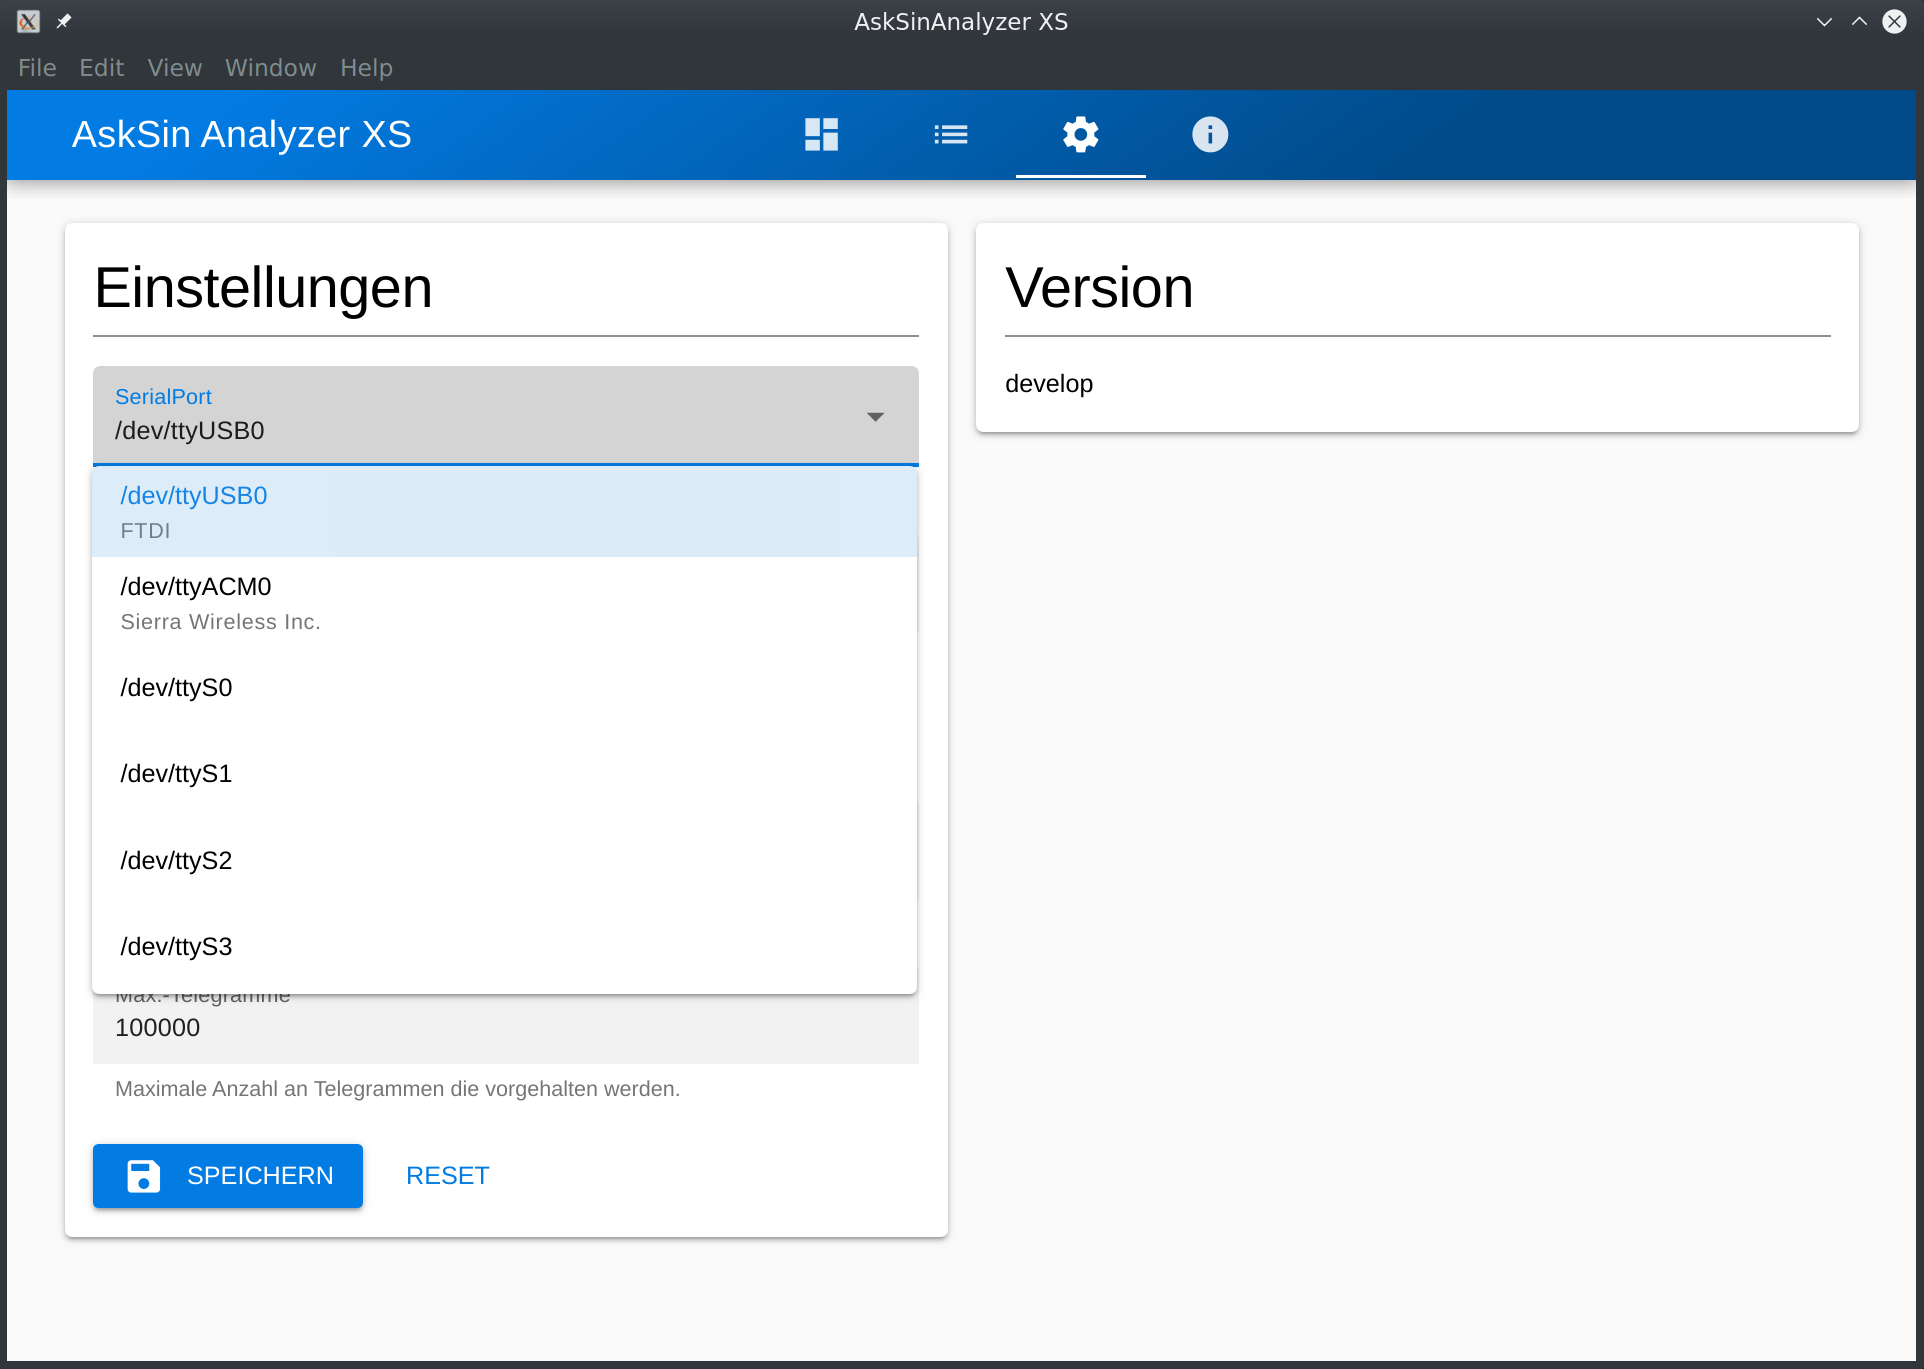
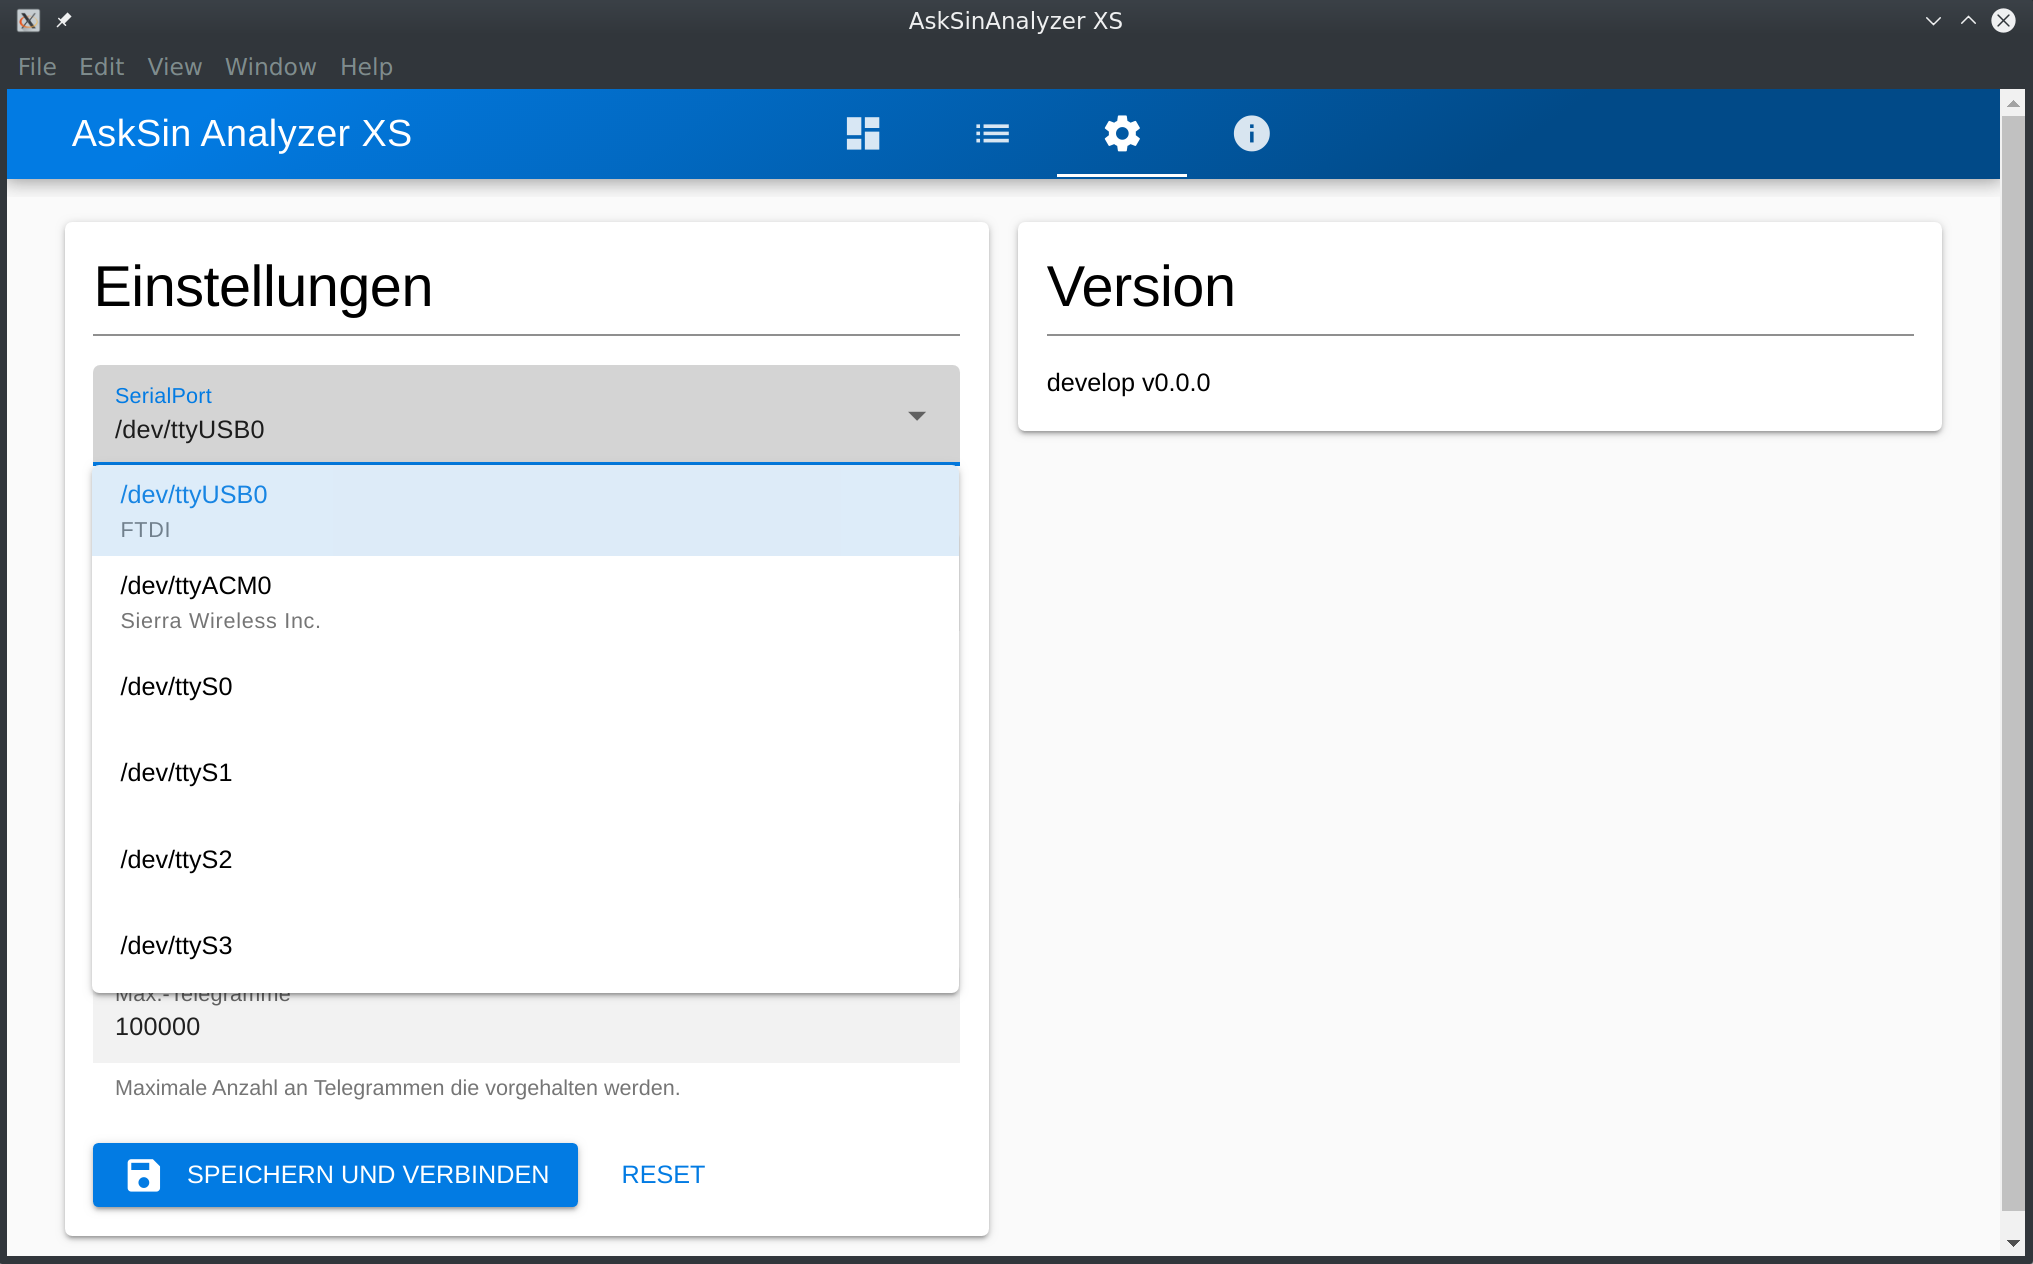
Update Readme

diff --git a/ui/src/views/Einstellungen.vue b/ui/src/views/Einstellungen.vue
@@ -13,7 +13,7 @@
         <q-card>
           <q-card-section>
             <h2>Version</h2>
-            develop v0.0.0
+            develop <small>v0.0.0</small>
           </q-card-section>
         </q-card>
       </div>

diff --git a/README.md b/README.md
@@ -6,12 +6,15 @@ Der AskSin Analyzer XS ist eine alternative Implementierung des [AskSinAnalyzer]
 
 ![AskSinAnalyzerXS-TelegramList](./docs/AskSinAnalyzerXS-TelegramList.png)
 
-Benötigte Hardware für den AskSinSniffer328P:
+## AskSinSniffer328P Hardware
+
 * Arduino Pro Mini 8Mhz 3.3V
 * CC1101 Funkmodul
 * USB-UART Adapter (FTDI, CP2102, etc)
 
-Die Daten des AskSinSniffer328P werden über den USB-UART Adapter an den AskSinAnalyzerXS übertragen und dort ausgewertet und visualisiert.
+Der Aufbau folgt der [allgemeingültige Verdrahtung des Pro Mini mit dem CC1101 Funkmodul](https://asksinpp.de/Grundlagen/01_hardware.html#verdrahtung). Der Config-Taster findet keine Verwendung und die Status-LED ist optional. 
+
+Die Daten des AskSinSniffer328P werden über einen USB-UART Adapter an den AskSinAnalyzerXS übertragen und dort ausgewertet und visualisiert.
 
 ![AskSinAnalyzerXS-Settings](./docs/AskSinAnalyzerXS-Settings.png)
 
@@ -23,7 +26,7 @@ Die Daten des AskSinSniffer328P werden über den USB-UART Adapter an den AskSinA
 
 ### AVR Sketch
 
-Auf dem ATmega328P wird der [AskSinSniffer328P-Sketch](https://github.com/jp112sdl/AskSinAnalyzer/tree/master/AskSinSniffer328P) geflasht. Grundlegends ist auf [asksinpp.de](https://asksinpp.de/Grundlagen/) erläutert.
+Auf dem ATmega328P wird der [AskSinSniffer328P-Sketch](https://github.com/jp112sdl/AskSinAnalyzer/tree/master/AskSinSniffer328P) geflasht. Das Vorgehen ist auf [asksinpp.de](https://asksinpp.de/Grundlagen/) erläutert.
 
 ### Electron-App
 
@@ -37,6 +40,32 @@ Der AskSinAnalyzerXS kann auch als Node.js Anwendung betrieben werden was z.B. a
 
 Hierzu ist ein eigener Build geplant aber aktuell noch nicht umgesetzt.
 
+
+## Konfiguration
+
+### Auflösung von Gerätenamen
+
+Der AskSinSniffer328P sieht nur die _Device-Addresses_, nicht aber deren Seriennummern oder Namen. Damit die Adressen in Klartextnamen aufgelöst werden können muss eine DeviceListe von der CCU geladen werden wofür ein Script auf der CCU nötig ist. Siehe [AskSinAnalyzer CCU Untersützung](https://github.com/jp112sdl/AskSinAnalyzer/wiki/CCU_Unterst%C3%BCtzung).
+
+Soll die Geräteliste von FHEM abgerufen werden ist in der `99_myUtils.pm` folgende Funktion einzufügen:
+
+```ruby
+sub printHMDevs {
+  my @data;
+  foreach my $device (devspec2array("TYPE=CUL_HM")) {
+    my $snr = AttrVal($device,'serialNr','');
+	$snr = "<Zentrale>" if AttrVal($device,'model','') eq 'CCU-FHEM';
+	if( $snr ne '' ) {
+	  my $name = AttrVal($device,'alias',$device);
+	  my $addr = InternalVal($device,'DEF','0');
+	  push @data, { name => $name, serial => $snr, address => hex($addr) };
+	}
+  }
+  return JSON->new->encode( { created => time, devices => \@data } );
+}
+```
+
+Im AskSinAnalyzerXS ist bei Verwendung vom FHEM die Option `Device-List Backend ist eine CCU` zu deaktivieren und als `Device-List URL` wird der Wert `http://fhem.local:8083/fhem?cmd={printHMDevs()}&XHR=1` eingetragen.
 
 ## Lizenz
 
